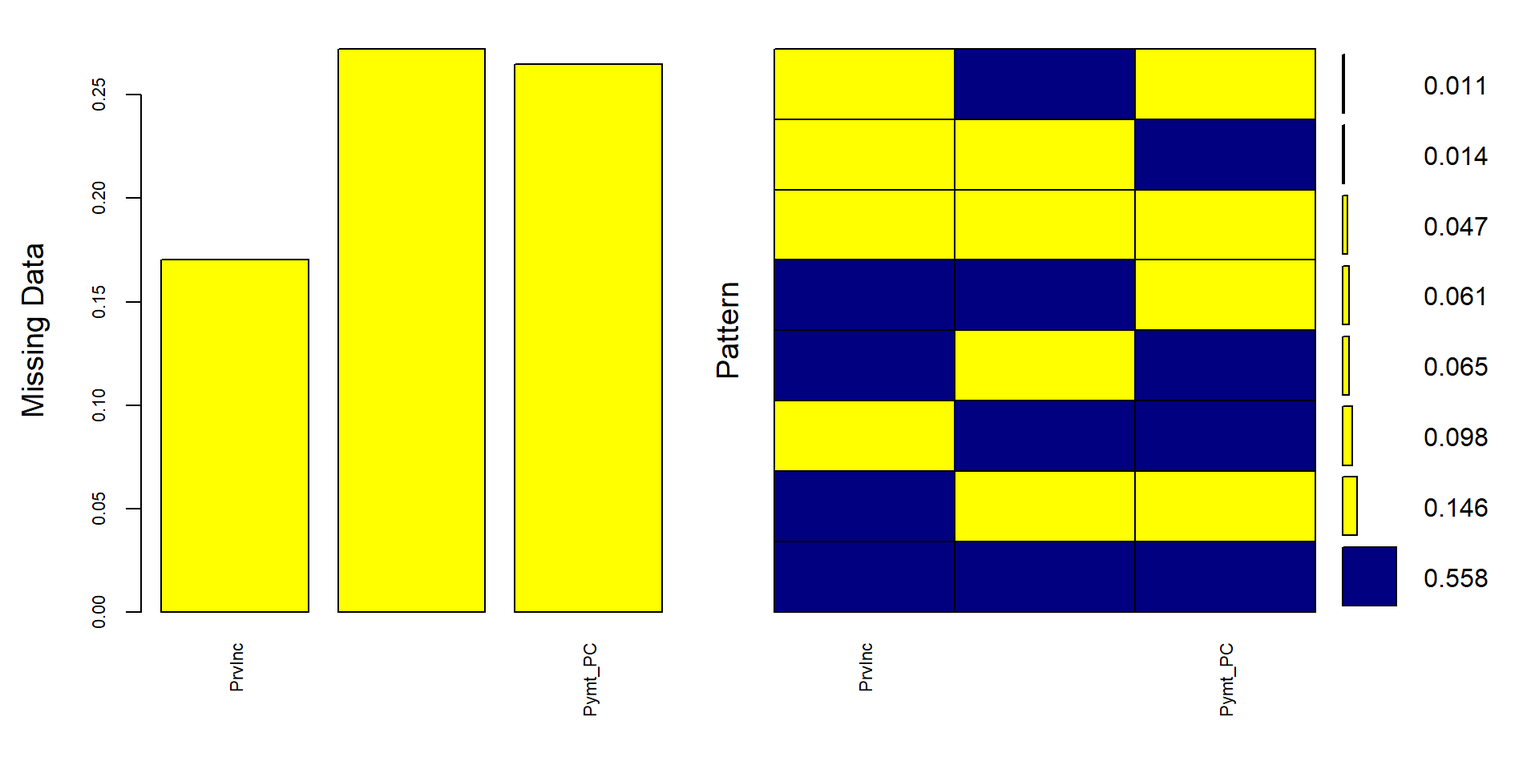
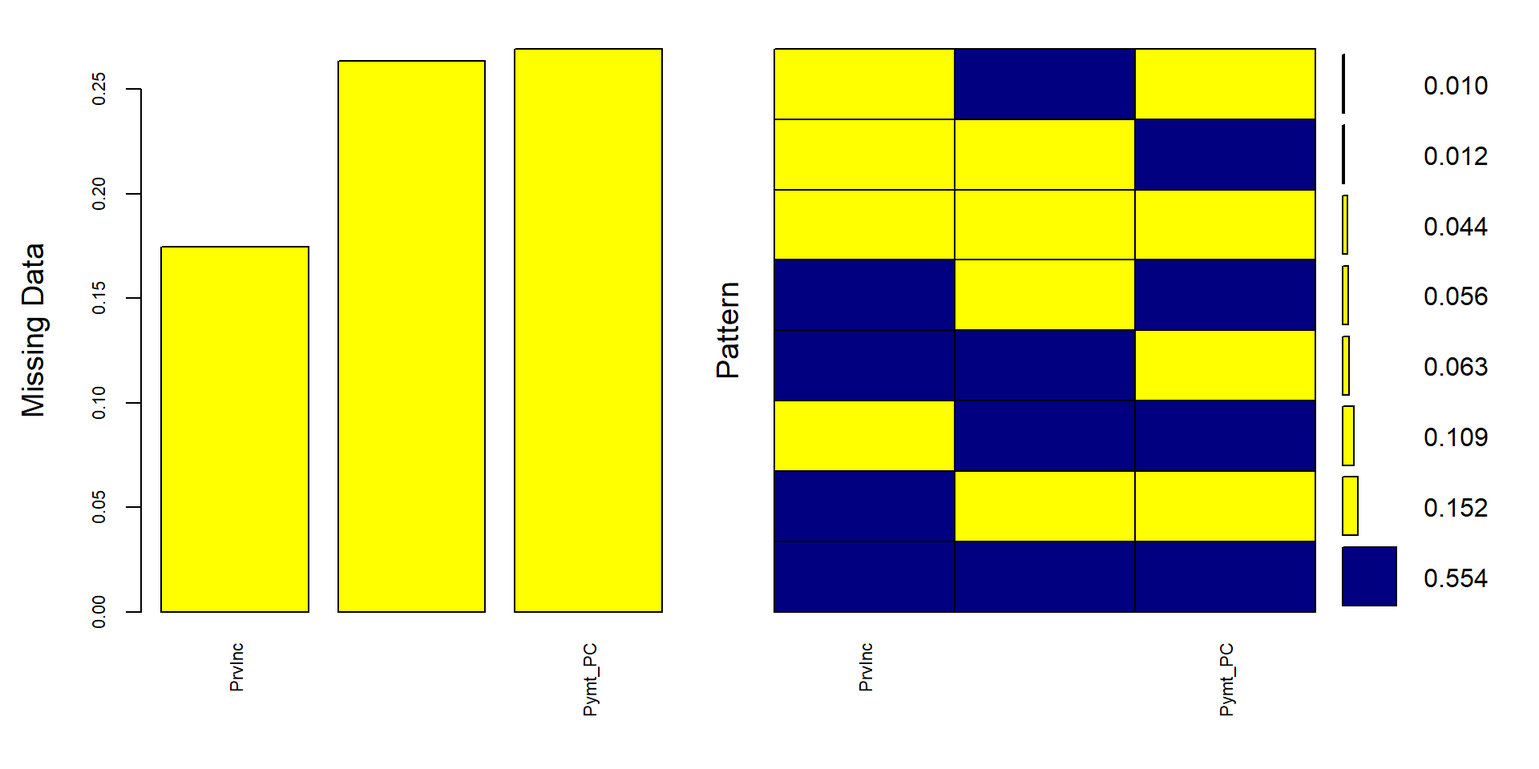
First set of slides

diff --git a/Slides.html b/Slides.html
@@ -10,9 +10,7 @@
 <link href="Slides_files/libs/quarto-html/quarto-syntax-highlighting.css" rel="stylesheet" id="quarto-text-highlighting-styles"><meta charset="utf-8">
   <meta name="generator" content="quarto-1.3.361">
 
-  <meta name="author" content="Natalie Belford, Benjamin Brustad, Jasmine Hyler">
-  <meta name="dcterms.date" content="2023-07-24">
-  <title>Missing Data and Imputation</title>
+  <title>slides</title>
   <meta name="apple-mobile-web-app-capable" content="yes">
   <meta name="apple-mobile-web-app-status-bar-style" content="black-translucent">
   <meta name="viewport" content="width=device-width, initial-scale=1.0, maximum-scale=1.0, user-scalable=no, minimal-ui">
@@ -95,26 +93,7 @@
     code span.va { color: #111111; } /* Variable */
     code span.vs { color: #20794d; } /* VerbatimString */
     code span.wa { color: #5e5e5e; font-style: italic; } /* Warning */
-    /* CSS for citations */
-    div.csl-bib-body { }
-    div.csl-entry {
-      clear: both;
-    }
-    .hanging-indent div.csl-entry {
-      margin-left:2em;
-      text-indent:-2em;
-    }
-    div.csl-left-margin {
-      min-width:2em;
-      float:left;
-    }
-    div.csl-right-inline {
-      margin-left:2em;
-      padding-left:1em;
-    }
-    div.csl-indent {
-      margin-left: 2em;
-    }  </style>
+  </style>
   <link rel="stylesheet" href="Slides_files/libs/revealjs/dist/theme/quarto.css">
   <link href="Slides_files/libs/revealjs/plugin/quarto-line-highlight/line-highlight.css" rel="stylesheet">
   <link href="Slides_files/libs/revealjs/plugin/reveal-menu/menu.css" rel="stylesheet">
@@ -409,50 +388,49 @@
   <div class="reveal">
     <div class="slides">
 
-<section id="title-slide" class="quarto-title-block center">
-  <h1 class="title">Missing Data and Imputation</h1>
 
-<div class="quarto-title-authors">
-<div class="quarto-title-author">
-<div class="quarto-title-author-name">
-Natalie Belford, Benjamin Brustad, Jasmine Hyler 
-</div>
-</div>
-</div>
-
-  <p class="date">2023-07-24</p>
-</section>
 <section id="introduction" class="slide level2">
 <h2>Introduction</h2>
-<p>Missing data is ubiquitous in any dataset. Although alone it is not a problem, missing data becomes a problem when its analysis shows bias or lacks power. While the occurrence of missing data is immense, its discussion in many peer-reviewed journal articles is not so. Even more infrequent are the discussions on how best to accurately institute observations in the missing dataset. Some researchers <span class="citation" data-cites="ljlmw14">(<a href="#/references" role="doc-biblioref" onclick="">Little et al. 2014</a>)</span> have observed that, there are areas of loss when it comes to missing data – bias, power, and recoverability.</p>
+<p>Missing data is ubiquitous in any dataset. Although alone it is not a problem, missing data becomes a problem when its analysis shows bias or lacks power. While the occurrence of missing data is immense, its discussion in many peer-reviewed journal articles is not so. Even more infrequent are the discussions on how best to accurately institute observations in the missing dataset. Some researchers <span class="citation" data-cites="ljlmw14">[@ljlmw14]</span> have observed that, there are areas of loss when it comes to missing data – bias, power, and recoverability.</p>
 <p>Missing data in experiments and analyses can lead to inaccurately distributed data and calculations, skewed visuals (such as histograms, line graphs, etc.), and allow for inaccurate conclusions to be rendered. Determining which method is best is another challenge entirely. The problem of missing data in research applications is vast. There is a significant need to best correct the missing data points in order to provide the most accurate and complete dataset from which to analyze the research and draw accurate conclusions. Researchers suggest using the most common form of missing data analysis, Multiple Imputation (MI), in addition to other novel suggested approaches.</p>
 <p>MI resolves the issue of “too small or too big” standard errors gathered from using traditional methods of addressing missing data. A large standard error occurs when statistical results are acquired with a lack of precision, whereas a small standard error occurs when statistical results are acquired with an overestimation of precision.</p>
-<p>As Madley-Dowd et al.<span class="citation" data-cites="mhth19">(<a href="#/references" role="doc-biblioref" onclick="">2019</a>)</span> have noted, providing sufficient auxiliary variables can alleviate power degradation from missing data. They determined that standard error increased when the fraction of missing information (FMI) increased, while FMI decreased when auxiliary variables increased.</p>
-<p>There has also been discussion of using machine learning to address missing data<span class="citation" data-cites="emmsmt21">(<a href="#/references" role="doc-biblioref" onclick="">Emmanuel et al. 2021</a>)</span>. Using machine learning, additional imputation methods to alleviate missing data include K Nearest Neighbor (KNN) and Support Vector Machine(SVM). KNN measures distances for each missing value and pulls the replacement value from the smallest distances. KNN still performs well even with large amounts of missing data, and in iterative versions, it has been shown to converge faster than many other methods, yet with a high computation time. SVM is similar, but rather than weighting each distance as with KMM, it aims to create a hyperplane that has the largest distance to data points. It should be noted that the KNN method outperformed the experiment’s implementation of a random forest decision tree for small missingness ratios.</p>
-<p>Many researchers argue that single imputation methods should be used only in randomized trials<span class="citation" data-cites="awlb21">(<a href="#/references" role="doc-biblioref" onclick="">Austin et al. 2021</a>)</span>.</p>
+<p>As Madley-Dowd et al.<span class="citation" data-cites="mhth19">[-@mhth19]</span> have noted, providing sufficient auxiliary variables can alleviate power degradation from missing data. They determined that standard error increased when the fraction of missing information (FMI) increased, while FMI decreased when auxiliary variables increased.</p>
+<p>There has also been discussion of using machine learning to address missing data<span class="citation" data-cites="emmsmt21">[@emmsmt21]</span>. Using machine learning, additional imputation methods to alleviate missing data include K Nearest Neighbor (KNN) and Support Vector Machine(SVM). KNN measures distances for each missing value and pulls the replacement value from the smallest distances. KNN still performs well even with large amounts of missing data, and in iterative versions, it has been shown to converge faster than many other methods, yet with a high computation time. SVM is similar, but rather than weighting each distance as with KMM, it aims to create a hyperplane that has the largest distance to data points. It should be noted that the KNN method outperformed the experiment’s implementation of a random forest decision tree for small missingness ratios.</p>
+<p>Many researchers argue that single imputation methods should be used only in randomized trials<span class="citation" data-cites="awlb21">[@awlb21]</span>.</p>
 </section>
 <section id="types-of-missing-data" class="slide level2">
 <h2>Types of Missing Data</h2>
 <p>Throughout the topic research, a common theme has emerged. Missing data is categorized into either one of three types: Missing Completely at Random, Missing at Random, and or Missing Not at Random.</p>
-<p>Kang<span class="citation" data-cites="k13">(<a href="#/references" role="doc-biblioref" onclick="">2013</a>)</span> introduces us to the three types of missing data as initially proposed by Rubin<span class="citation" data-cites="r76">(<a href="#/references" role="doc-biblioref" onclick="">Rubin 1976</a>)</span>. This research was expanded upon <span class="citation" data-cites="pmckppp17">(<a href="#/references" role="doc-biblioref" onclick="">Pedersen et al. 2017</a>)</span> to discuss the thorough estimation value of using MI in data analysis along with providing the three-step method. Pedersen et al.&nbsp;conclude the results of using MI are similar to using complete datasets thereby enhancing the credibility of the method’s robustness.</p>
-<p>Missing Completely at Random (MCAR) refers to the probability that missing data is either not related to a specific value that is supposed to be obtained or to the set of obtained values. The data can also be missing due to equipment failure, samples lost in transit, or unsatisfactory samples<span class="citation" data-cites="k13">(<a href="#/references" role="doc-biblioref" onclick="">Kang 2013</a>)</span>. MCAR data are unbiased and therefore an advantage due to its estimated parameters being objective and undeterred because of missing data. As a result, MCAR is the best-case option for missing data in an experiment.</p>
-<p>Missing at Random (MAR) refers to the probability that missing responses are dependent upon the set of observed responses, but not related to the specific values expected to be obtained given the history of the obtained variable prior to the experiment. This is the most realistic option for missing data. When Missing at Random (MAR) occurs, the missing data is knowable and missingness is predictable, therefore, estimates can be determined; bias can be “recovered”<span class="citation" data-cites="k13">(<a href="#/references" role="doc-biblioref" onclick="">Kang 2013</a>)</span>.</p>
-<p>Missing Not at Random (MNAR) refers to any case of missing data that cannot be classified as either Missing Completely at Random or Missing at Random. When Missing Not at Random (MNAR) occurs, no bias is observed, only power is affected resulting in standard error (SE) around the estimates being larger due to reduced sample size. MNAR is the least desirable scenario of missing data. The only way to accurately obtain an unbiased observation of the data is to model the data and use the model to incorporate it into a more complex model to estimate the values<span class="citation" data-cites="k13">(<a href="#/references" role="doc-biblioref" onclick="">Kang 2013</a>)</span>. When Missing Not at Random (MNAR) occurs, the subjects affect the variables. Subjects do not want to disclose accurate information for fear or shame, and therefore forego providing a data point altogether<span class="citation" data-cites="ljlmw14">(<a href="#/references" role="doc-biblioref" onclick="">Little et al. 2014</a>)</span>.</p>
+<p>Kang<span class="citation" data-cites="k13">[-@k13]</span> introduces us to the three types of missing data as initially proposed by Rubin<span class="citation" data-cites="r76">[@r76]</span>. This research was expanded upon <span class="citation" data-cites="pmckppp17">[@pmckppp17]</span> to discuss the thorough estimation value of using MI in data analysis along with providing the three-step method. Pedersen et al.&nbsp;conclude the results of using MI are similar to using complete datasets thereby enhancing the credibility of the method’s robustness.</p>
+<p>Missing Completely at Random (MCAR) refers to the probability that missing data is either not related to a specific value that is supposed to be obtained or to the set of obtained values. The data can also be missing due to equipment failure, samples lost in transit, or unsatisfactory samples<span class="citation" data-cites="k13">[@k13]</span>. MCAR data are unbiased and therefore an advantage due to its estimated parameters being objective and undeterred because of missing data. As a result, MCAR is the best-case option for missing data in an experiment.</p>
+<p>Missing at Random (MAR) refers to the probability that missing responses are dependent upon the set of observed responses, but not related to the specific values expected to be obtained given the history of the obtained variable prior to the experiment. This is the most realistic option for missing data. When Missing at Random (MAR) occurs, the missing data is knowable and missingness is predictable, therefore, estimates can be determined; bias can be “recovered”<span class="citation" data-cites="k13">[@k13]</span>.</p>
+<p>Missing Not at Random (MNAR) refers to any case of missing data that cannot be classified as either Missing Completely at Random or Missing at Random. When Missing Not at Random (MNAR) occurs, no bias is observed, only power is affected resulting in standard error (SE) around the estimates being larger due to reduced sample size. MNAR is the least desirable scenario of missing data. The only way to accurately obtain an unbiased observation of the data is to model the data and use the model to incorporate it into a more complex model to estimate the values<span class="citation" data-cites="k13">[@k13]</span>. When Missing Not at Random (MNAR) occurs, the subjects affect the variables. Subjects do not want to disclose accurate information for fear or shame, and therefore forego providing a data point altogether<span class="citation" data-cites="ljlmw14">[@ljlmw14]</span>.</p>
 </section>
 <section id="types-of-missing-data-solutions" class="slide level2">
 <h2>Types of Missing Data Solutions</h2>
-<p>Kang attempts to provide solutions to fill in the missing data points<span class="citation" data-cites="k13">(<a href="#/references" role="doc-biblioref" onclick="">Kang 2013</a>)</span>. His research suggests the best solution to missing data is to be proactive to prevent it. When prevention fails to eliminate missing data, Kang offers several data analysis solutions to make the data more robust. The most common solution is complete case analysis, also stated as listwise analysis, with the aim to eliminate the missing data records altogether and analyze only the remaining whole data records.</p>
-<p>Meanwhile, Lee et al.<span class="citation" data-cites="ltclbghc21">(<a href="#/references" role="doc-biblioref" onclick="">2021</a>)</span> deem the method beneficial for some use cases, but not sufficient for most analyses. They introduce Treatment and Reporting of Missing data in Observational Studies (TARMOS), a novel framework alternative to MI. TARMOS’s aim is to provide transparency and limit redundancies in substituted data. The framework notes the importance of using auxiliary variables to gather information from incomplete observations.</p>
-<p>In addition to using MI, Little, et al.&nbsp;recommended using full-information maximum likelihood to mitigate the issues of missing data<span class="citation" data-cites="ljlmw14">(<a href="#/references" role="doc-biblioref" onclick="">Little et al. 2014</a>)</span>. Using the three discussed planned missing data designs - multiform questionnaire protocol, two-method planned missing design, and wave-missing longitudinal design – the user is able to better understand how to overcome missing data issues.</p>
+<p>Kang attempts to provide solutions to fill in the missing data points<span class="citation" data-cites="k13">[@k13]</span>. His research suggests the best solution to missing data is to be proactive to prevent it. When prevention fails to eliminate missing data, Kang offers several data analysis solutions to make the data more robust. The most common solution is complete case analysis, also stated as listwise analysis, with the aim to eliminate the missing data records altogether and analyze only the remaining whole data records.</p>
+<p>Meanwhile, Lee et al.<span class="citation" data-cites="ltclbghc21">[-@ltclbghc21]</span> deem the method beneficial for some use cases, but not sufficient for most analyses. They introduce Treatment and Reporting of Missing data in Observational Studies (TARMOS), a novel framework alternative to MI. TARMOS’s aim is to provide transparency and limit redundancies in substituted data. The framework notes the importance of using auxiliary variables to gather information from incomplete observations.</p>
+<p>In addition to using MI, Little, et al.&nbsp;recommended using full-information maximum likelihood to mitigate the issues of missing data<span class="citation" data-cites="ljlmw14">[@ljlmw14]</span>. Using the three discussed planned missing data designs - multiform questionnaire protocol, two-method planned missing design, and wave-missing longitudinal design – the user is able to better understand how to overcome missing data issues.</p>
 <p>It is essential to have quality datasets to avoid corrupted machine learning models. A derivative of MI is the Multivariate Imputation by Chained Equation (MICE) algorithm which assumes data is Missing at Random (MAR). The process uses multiple imputation methods to provide better results by considering the uncertainty of missing data.</p>
-<p>Khan and Hoque <span class="citation" data-cites="kh20">(<a href="#/references" role="doc-biblioref" onclick="">2020</a>)</span> provide an alternative to MICE. Known as SICE, the new method improves upon the already existing Multivariate Imputation by Chained Equation (MICE) algorithm (found as a package in R), split into two variations to impute both categorical and numerical data. The method improves missing data by creating a hybrid of single and multiple imputation techniques. Using the respective variant, SICE-Categorical and SICE-Numeric, of the Single Center Imputation from Multiple Chained Equation (SICE) algorithm, the missing data values are corrected using a thorough approach to closely find a more accurate value to use instead. The approach uses predicted values imputed by using the MI approach to compute a mean or mode for the imputed values(depending on the data type), and replacing the original imputed value with the respective central measure. An added feature of using SICE in R is that it often had the lowest computation time for its data sets.</p>
-<p>Two main techniques of imputation exist – traditional and modern<span class="citation" data-cites="oap18">(<a href="#/references" role="doc-biblioref" onclick="">Osman, Abu-Mahfouz, and Page 2018</a>)</span>. The traditional technique - single imputation, deletion, and mean imputation may be obsolete. However, Hot or Cold deck imputation (replacing missing data using similar data sets), and Regression imputation (replacing missing data with points along a regression) - may prove useful with many datasets. Furthermore, single imputation may lead to biased results and underestimation of error or variability.</p>
+<p>Khan and Hoque <span class="citation" data-cites="kh20">[-@kh20]</span> provide an alternative to MICE. Known as SICE, the new method improves upon the already existing Multivariate Imputation by Chained Equation (MICE) algorithm (found as a package in R), split into two variations to impute both categorical and numerical data. The method improves missing data by creating a hybrid of single and multiple imputation techniques. Using the respective variant, SICE-Categorical and SICE-Numeric, of the Single Center Imputation from Multiple Chained Equation (SICE) algorithm, the missing data values are corrected using a thorough approach to closely find a more accurate value to use instead. The approach uses predicted values imputed by using the MI approach to compute a mean or mode for the imputed values(depending on the data type), and replacing the original imputed value with the respective central measure. An added feature of using SICE in R is that it often had the lowest computation time for its data sets.</p>
+<p>Two main techniques of imputation exist – traditional and modern<span class="citation" data-cites="oap18">[@oap18]</span>. The traditional technique - single imputation, deletion, and mean imputation may be obsolete. However, Hot or Cold deck imputation (replacing missing data using similar data sets), and Regression imputation (replacing missing data with points along a regression) - may prove useful with many datasets. Furthermore, single imputation may lead to biased results and underestimation of error or variability.</p>
 </section>
 <section id="methods" class="slide level2">
 <h2>Methods</h2>
-<p>The dataset used to conduct the below Missing Imputation methods was adapted from the most recent study conducted by the U.S. Department of Health &amp; Human Services which examined 21 specific chronic illnesses of Medicare beneficiaries<span class="citation" data-cites="CMMS">(<a href="#/references" role="doc-biblioref" onclick="">Medicare &amp; Medicaid Services 2018</a>)</span>.</p>
-<p>The Multiple Imputation (MI) approach is used to correct the issue of imputing multiple times the missing values from the predictive distribution of the missing values given observed data. “Next, the analysis model is fitted to each ‘complete’ data set and results combined using Rubin’s rules” <span class="citation" data-cites="k13">(<a href="#/references" role="doc-biblioref" onclick="">Kang 2013</a>)</span>. Bias can be reduced and efficiency increased by using in the imputation step the auxiliary variables (predictive of missing values but not in the substantive model). The MI method is good but is not appropriate for handling all missing data records.</p>
-<p>There is a three-step process for conducting a statistical analysis of MI. The stages are 1) Selecting independent variables that may help impute variables with missing data, 2) Noting the chosen statistical method, estimating in each of the imputed datasets the association of interest, and 3) Combining using Rubin’s rules the association measures from each imputed dataset. To combine, we use the following equations for Standard Error(SE), Arithmetic Average(W) and the Variability of the estimates(B), where t is a particular dataset, m is the total amount of imputed datasets, <span class="math inline">\(\bar{\theta}\)</span> and <span class="math inline">\(\hat{\theta_t}\)</span> are the average parameter estimate and the parameter estimate for a particular dataset, respectively.</p>
+<ul>
+<li><p>Dataset: 21 specific chronic illnesses of Medicare beneficiaries, from U.S. Department of Health &amp; Human Services <span class="citation" data-cites="CMMS">[@CMMS]</span>.</p></li>
+<li><p>Goal: Fill in missing data (2244 missing entries, about 5%)</p></li>
+<li><p>Approach: Imputation using 3 approaches: Predictive Means Matching, Classification and Regression Trees, Lasso Regression, and Random Forest</p>
+<ul>
+<li>These are all forms of Multiple Imputation: perform single imputation several times to create multiple data sets, analyze and compute the error of each set, then combine the data into a single, final data set <span class="citation" data-cites="ljlmw14">[@ljlmw14]</span>.</li>
+</ul></li>
+</ul>
+</section>
+<section id="rubins-rules-for-combining" class="slide level2 smaller">
+<h2>Rubin’s rules for combining</h2>
+<p>1) Select independent variables that may help impute variables with missing data</p>
+<p>2) Noting the chosen statistical method, estimate in each of the imputed datasets the association of interest</p>
+<p>3) Combine using Rubin’s rules the association measures from each imputed dataset. To combine, we use the following equations</p>
 <p><span class="math display">\[
 W=\frac{\sum({SE_t}^2)}{m} \tag{1}
 \]</span></p>
@@ -460,32 +438,59 @@ W=\frac{\sum({SE_t}^2)}{m} \tag{1}
 B=\frac{\sum(\hat{\theta_t}-\bar{\theta})^2}{m-1} \tag{2}
 \]</span></p>
 <p><span class="math display">\[
-SE=\sqrt{W+B+\frac{B}{m}}
+SE=\sqrt{W+B+\frac{B}{m}} \tag{3}
 \]</span></p>
-<p>TARMOS consists of three main steps with a series of subsets within each step. The steps are as follows. Step 1) Plan the analysis, step 2) Conduct the preplanned analysis, and step 3) Report the analysis. The framework’s emphasis is on transparency. All expectations of the analysis and the research interests should be disclosed.</p>
-<p>One proposed method which we deem computationally feasible for this project is multiple imputation. The methodology includes performing single imputation with multiple data sets, analyzing and computing the error of each set, and combining the data into a single, final data set <span class="citation" data-cites="ljlmw14">(<a href="#/references" role="doc-biblioref" onclick="">Little et al. 2014</a>)</span>.</p>
-<p>Researchers tested their proposed SICE method using four datasets, a sample of 65,000 real health records from hospitals and diagnostic clinics in Bangladesh, and one public dataset each from UCI Machine Learning Repository, Department of Mathematics of ETH Zurich, and Kaggle. The data types assessed were binary, categorical, and numeric.</p>
-<p>Researchers tested SICE performance against that of 12 existing imputation methods. Binary and numeric data responded better to SICE than the opposing methods. When using SICE, F-measurement resulted in a 20% increase while error reduction resulted in an 11% increase; Both factors showed improvement using SICE compared to the existing imputation methods. There was no significant time difference when running SICE compared to MICE [<span class="citation" data-cites="pmckppp17">Pedersen et al. (<a href="#/references" role="doc-biblioref" onclick="">2017</a>)</span>].</p>
-<p>Using Multiple Imputation by Chained Equations (MICE), the multiple imputation is conducted by manipulating the imputed data and comparing it to the regression, repeating the process multiple times, (usually 5-20), to create a single data set. Most modern imputations will create 20-100 data sets. Then each of these data sets will be analyzed and compared, such that the MI estimate of any statistic is the average of the statistic across each imputed set. The variance of each statistic is based on the within-imputation variation and the between-imputation variation [<span class="citation" data-cites="awlb21">Austin et al. (<a href="#/references" role="doc-biblioref" onclick="">2021</a>)</span>]. The variable that is to be analyzed must be included in the imputation model, even if there is no missing data, otherwise, it will often be biased towards null.</p>
-<p>For our analysis, we decided to use the R packages for predictive means matching, classification and regression trees, and lasso linear regression, defined below.</p>
 </section>
-<section id="equations" class="slide level2">
-<h2>Equations</h2>
-</section>
-<section id="predictive-means-matching" class="slide level2">
-<h2>Predictive Means Matching</h2>
-<p>Predictive means matching(PMM) is a hot deck method, which pools complete cases which are similar to the case we are trying to impute, and randomly chooses values from the pool of prospective donors to be imputed for the missing data.For each missing variable, $x$, we impute using parameters $\alpha$ and covariates $z$. We use $h$ as a subscript for data containing $x$ and $j$ for data without. PMM choses a random donor from $x_h$ such that the distance defined below is minimized.</p>
+<section id="predictive-means-matching-pmm" class="slide level2 smaller">
+<h2>Predictive Means Matching (PMM)</h2>
+<ul>
+<li><p>hot deck method</p></li>
+<li><p>easy to use</p></li>
+<li><p>handles any data type</p></li>
+<li><p>Realistic</p></li>
+<li><p>Hard to use for small data sets or ones with large FMI</p></li>
+</ul>
+<p>For each missing variable, <span class="math inline">\(x\)</span> , we impute using parameters <span class="math inline">\(\alpha\)</span> and covariates <span class="math inline">\(z\)</span> . We use <span class="math inline">\(h\)</span> as a subscript for data containing <span class="math inline">\(x\)</span> and <span class="math inline">\(j\)</span> for data without. PMM choses a random donor from <span class="math inline">\(x_h\)</span> such that the distance defined below is minimized.</p>
 <p><span class="math display">\[
 \delta_{hj}=\alpha^{mis}z_j-\alpha^{obs}z_h \tag{4}
 \]</span></p>
 </section>
-<section id="classification-and-regression-trees" class="slide level2">
-<h2>Classification and Regression Trees</h2>
-<p>Classification and regression trees(CART) look for predictors and cutoff points in the data, and split data into trees along these points. Classifications trees are used for discrete data, but for continuous, such as ours, regression trees are employed. Missing data is replaced very similarly to the PMM method, but data is chosen according to the tree of splitting points rather than regression [<span class="citation" data-cites="RJG21">Rodgers, Jacobucci, and Grimm (<a href="#/references" role="doc-biblioref" onclick="">2021</a>)</span>].</p>
+<section id="classification-and-regression-treescart" class="slide level2">
+<h2>Classification and Regression Trees(CART)</h2>
+<ul>
+<li><p>Machine Learning</p></li>
+<li><p>Robust</p></li>
+<li><p>Flexible</p></li>
+<li><p>Straightforward(in R)</p>
+<ul>
+<li>Automates variable selection, missing values, outliers, variable interaction, and nonlinear relationships</li>
+</ul></li>
+<li><p>In practice works similarly to PMM with tree instead of regression</p></li>
+</ul>
 </section>
-<section id="lasso-regression" class="slide level2">
+<section id="random-forestmiss-forest" class="slide level2">
+<h2>Random Forest(Miss Forest)</h2>
+<ul>
+<li>Subset of CART</li>
+</ul>
+<!-- -->
+<ul>
+<li><p>Uses CART and Rubin’s rules automatically to yield a single dataset</p></li>
+<li><p>Does not account for uncertainty and increases P values</p></li>
+<li><p>Usually similar to average of all predictions from the CART models</p></li>
+<li><p>Better predictions and accuracy than a single CART model</p></li>
+</ul>
+</section>
+<section id="lasso-regression" class="slide level2 smaller">
 <h2>Lasso Regression</h2>
-<p>Lasso linear regression fits a linear regression using the missing columns as dependent and complete columns as predictors. Then a Bayesian linear model is defined, and imputations are drawn from the posterior predictive distribution. Coefficients <span class="math inline">\(\hat{\beta_0}\)</span> and <span class="math inline">\(\hat{\beta}^{lasso}\)</span> are estimated by</p>
+<ul>
+<li><p>Minimizes regression coefficient (good for high multicollinearity)</p></li>
+<li><p>Best for high dimension datasets</p></li>
+<li><p>Preserves relationships between variables best</p></li>
+<li><p>May add bias</p></li>
+<li><p>Removes some predictor variables(easier to use)</p></li>
+</ul>
+<p>Coefficients <span class="math inline">\(\hat{\beta_0}\)</span> and <span class="math inline">\(\hat{\beta}^{lasso}\)</span> are estimated by</p>
 <p><span class="math display">\[(\hat{\beta_0}, \hat{\beta}^{lasso}) =argmin[\sum(Y_i-(\beta_0+\beta X^T_i))^2+\lambda \sum |\beta_j|] \tag5\]</span></p>
 <p>where Y and X are the outcome and predictors respectively. λ is a non-negative tuning parameter that controls the amount of shrinkage, with increased shrinkage for higher λ values [@MZPRG14].</p>
 </section>
@@ -576,16 +581,16 @@ SE=\sqrt{W+B+\frac{B}{m}}
 <p><img data-src="Slides_files/figure-revealjs/unnamed-chunk-6-1.png" width="960"></p>
 </div>
 <div class="cell-output cell-output-stdout">
-<pre><code>     PrvInc Pymt_PC Stdzd_Pymt_PC     
-2742      1       1             1    0
-318       1       1             0    1
-298       1       0             1    1
-718       1       0             0    2
-483       0       1             1    1
-69        0       1             0    2
-53        0       0             1    2
-233       0       0             0    3
-        838    1302          1338 3478</code></pre>
+<pre><code>     PrvInc Stdzd_Pymt_PC Pymt_PC     
+2724      1             1       1    0
+309       1             1       0    1
+275       1             0       1    1
+748       1             0       0    2
+535       0             1       1    1
+51        0             1       0    2
+57        0             0       1    2
+215       0             0       0    3
+        858          1295    1323 3476</code></pre>
 </div>
 </div>
 <p>Additionally, we ran the miss Forest package followed by a summary to gain a better quantitative view. Below are the code, results, and figure.</p>
@@ -605,12 +610,12 @@ SE=\sqrt{W+B+\frac{B}{m}}
 <div class="cell-output cell-output-stdout">
 <pre><code>     PrvInc       Stdzd_Pymt_PC      Pymt_PC      
  Min.   :0.0000   Min.   :    0   Min.   :     0  
- 1st Qu.:0.0391   1st Qu.:18580   1st Qu.: 18389  
- Median :0.1114   Median :23222   Median : 22995  
- Mean   :0.1724   Mean   :24090   Mean   : 24021  
- 3rd Qu.:0.2756   3rd Qu.:28251   3rd Qu.: 28242  
+ 1st Qu.:0.0383   1st Qu.:18672   1st Qu.: 18398  
+ Median :0.1100   Median :23221   Median : 23051  
+ Mean   :0.1718   Mean   :24066   Mean   : 24039  
+ 3rd Qu.:0.2736   3rd Qu.:28188   3rd Qu.: 28242  
  Max.   :0.7588   Max.   :89235   Max.   :100028  
- NA's   :838      NA's   :1338    NA's   :1302    </code></pre>
+ NA's   :858      NA's   :1295    NA's   :1323    </code></pre>
 </div>
 </div>
 <div class="cell">
@@ -628,48 +633,10 @@ SE=\sqrt{W+B+\frac{B}{m}}
 <p>Missing data is a common finding when analyzing datasets, yet can be easily addressed. Unlike other data analysis cleaning methods which create biased results by removing data or imputing an average, Multiple imputation is the act of completing data sets where there are missing data points. MI’s purpose is to utilize multiple analyses for what the missing data value could be, then combine analyses results in order to have a less biased and more accurate outcome. Multivariate Imputation by Chained Equations, or MICE, in R is a highly effective way to impute missing data into data sets. One key benefit of using MI, or more specifically MICE, is to reduce uncertainty by using multiple possible outcomes for each data point. Within the MICE package are PMM, Lasso and Cart methods if imputation. Each method will produce results based off of a different type of analysis which will include both a combination of the different analysis types and a combination of each imputation.</p>
 <p>From our data set we can see with our final Density Plot that not only does one or some of the imputed data results follow the trendline closely, but all do. We can determine that the imputed data, when this close to the trendline, will be fairly accurate.</p>
 </section>
-<section id="references" class="slide level2 smaller scrollable">
+<section id="references" class="slide level2">
 <h2>References</h2>
 <div class="footer footer-default">
 
-</div>
-<div id="refs" class="references csl-bib-body hanging-indent" role="list">
-<div id="ref-awlb21" class="csl-entry" role="listitem">
-Austin, Peter C., Ian R. White, Douglas S. Lee, and Stef van Buuren. 2021. <span>“Missing Data in Clinical Research: A Tutorial on Multiple Imputation.”</span> <em>Canadian Journal of Cardiology</em> 37 (9): 1322–31. <a href="https://doi.org/10.1016/j.cjca.2020.11.010">https://doi.org/10.1016/j.cjca.2020.11.010</a>.
-</div>
-<div id="ref-emmsmt21" class="csl-entry" role="listitem">
-Emmanuel, T., T. Maupong, D. Mpoeleng, T. Semong, B. Mphago, and O. Tabona. 2021. <span>“A Survey on Missing Data in Machine Learning.”</span> <em>Journal of Big Data</em> 8 (1): 140. <a href="https://doi.org/10.1186/s40537-021-00516-9">https://doi.org/10.1186/s40537-021-00516-9</a>.
-</div>
-<div id="ref-k13" class="csl-entry" role="listitem">
-Kang, H. 2013. <span>“The Prevention and Handling of the Missing Data.”</span> <em>Korean Journal of Anesthesiology</em> 64 (5): po2. https://doi.org/<a href="https://doi.org/10.4097/kjae.2013.64.5.402">https://doi.org/10.4097/kjae.2013.64.5.402</a>.
-</div>
-<div id="ref-kh20" class="csl-entry" role="listitem">
-Khan, S. I., and A. S. M. L. Sice Hoque. 2020. <span>“An Improved Missing Data Imputation Technique.”</span> <em>J Big Data</em> 7: 37. <a href="https://doi.org/10.1186/s40537-020-00313-w">https://doi.org/10.1186/s40537-020-00313-w</a>.
-</div>
-<div id="ref-ltclbghc21" class="csl-entry" role="listitem">
-Lee, Katherine J., Kate M. Tilling, Rosie P. Cornish, Roderick J. A. Little, Melanie L. Bell, Els Goetghebeur, Joseph W. Hogan, and James R. Carpenter. 2021. <span>“Framework for the Treatment and Reporting of Missing Data in Observational Studies: The Treatment and Reporting of Missing Data in Observational Studies Framework.”</span> <em>Journal of Clinical Epidemiology</em> 134: 79–88. <a href="https://doi.org/10.1016/j.jclinepi.2021.01.008">https://doi.org/10.1016/j.jclinepi.2021.01.008</a>.
-</div>
-<div id="ref-ljlmw14" class="csl-entry" role="listitem">
-Little, T., T. Jorgensen, K. Lang, E. Moore, and E. Whitney. 2014. <span>“On the Joys of Missing Data.”</span> <em>Journal of Pediatric Psychology</em> 39 (2): 151–62. https://doi.org/<a href="https://doi.org/10.1093/jpepsy/jst048">https://doi.org/10.1093/jpepsy/jst048</a>.
-</div>
-<div id="ref-mhth19" class="csl-entry" role="listitem">
-Madley-Dowd, P., R. Hughes, K. Tilling, and J. Heron. 2019. <span>“The Proportion of Missing Data Should Not Be Used to Guide Decisions on Multiple Imputation.”</span> <em>JCE</em> 110: 63–73. <a href="https://doi.org/10.1016/j.jclinepi.2019.02.016">https://doi.org/10.1016/j.jclinepi.2019.02.016</a>.
-</div>
-<div id="ref-CMMS" class="csl-entry" role="listitem">
-Medicare &amp; Medicaid Services, Centers for. 2018. <span>“Specific Chronic Conditions.”</span> <a href="https://catalog.data.gov/dataset/specific-chronic-conditions-0f448">https://catalog.data.gov/dataset/specific-chronic-conditions-0f448</a>.
-</div>
-<div id="ref-oap18" class="csl-entry" role="listitem">
-Osman, M. S., A. M. Abu-Mahfouz, and P. R. Page. 2018. <span>“A Survey on Data Imputation Techniques: Water Distribution System as a Use Case.”</span> <em>IEEE Access</em> 6: 63279–91. <a href="https://doi.org/10.1109/ACCESS.2018.2877269">https://doi.org/10.1109/ACCESS.2018.2877269</a>.
-</div>
-<div id="ref-pmckppp17" class="csl-entry" role="listitem">
-Pedersen, Alma B., Ellen M. Mikkelsen, Deirdre Cronin-Fenton, Nickolaj R. Kristensen, Tra My Pham, Lars Pedersen, and Irene Petersen. 2017. <span>“Missing Data and Multiple Imputation in Clinical Epidemiological Research,”</span> <em>Clinical Epidemiology</em> 9: 157–66. <a href="https://doi.org/10.2147/CLEP.S129785">https://doi.org/10.2147/CLEP.S129785</a>.
-</div>
-<div id="ref-RJG21" class="csl-entry" role="listitem">
-Rodgers, Danielle M., Ross Jacobucci, and Kevin J. Grimm. 2021. <span>“A Multiple Imputation Approach for Handling Missing Data in Classification and Regression Trees.”</span> <em>Journal of Behavioral Data Science</em> 1: 127–53. https://doi.org/<a href="https://doi.org/10.35566/jbds/v1n1/p6">https://doi.org/10.35566/jbds/v1n1/p6</a>.
-</div>
-<div id="ref-r76" class="csl-entry" role="listitem">
-Rubin, Donald B. 1976. <span>“Inference and Missing Data.”</span> <em>Biometrika</em> 63 (3): 581–92. <a href="https://doi.org/10.1093/biomet/63.3.581">https://doi.org/10.1093/biomet/63.3.581</a>.
-</div>
 </div>
 </section>
     </div>
